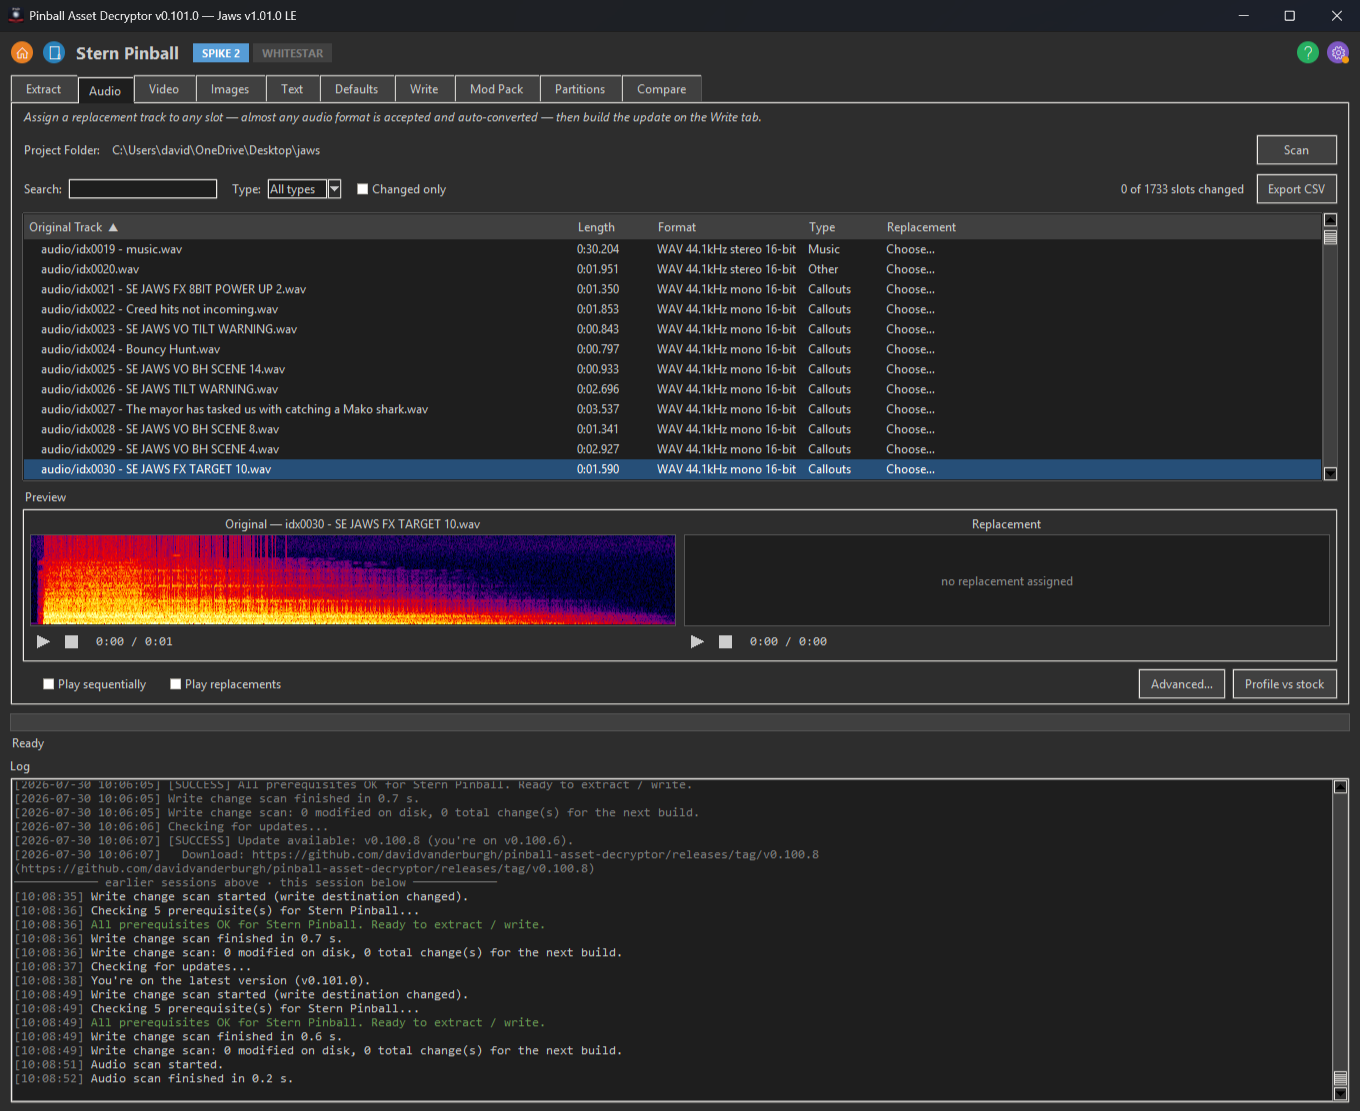
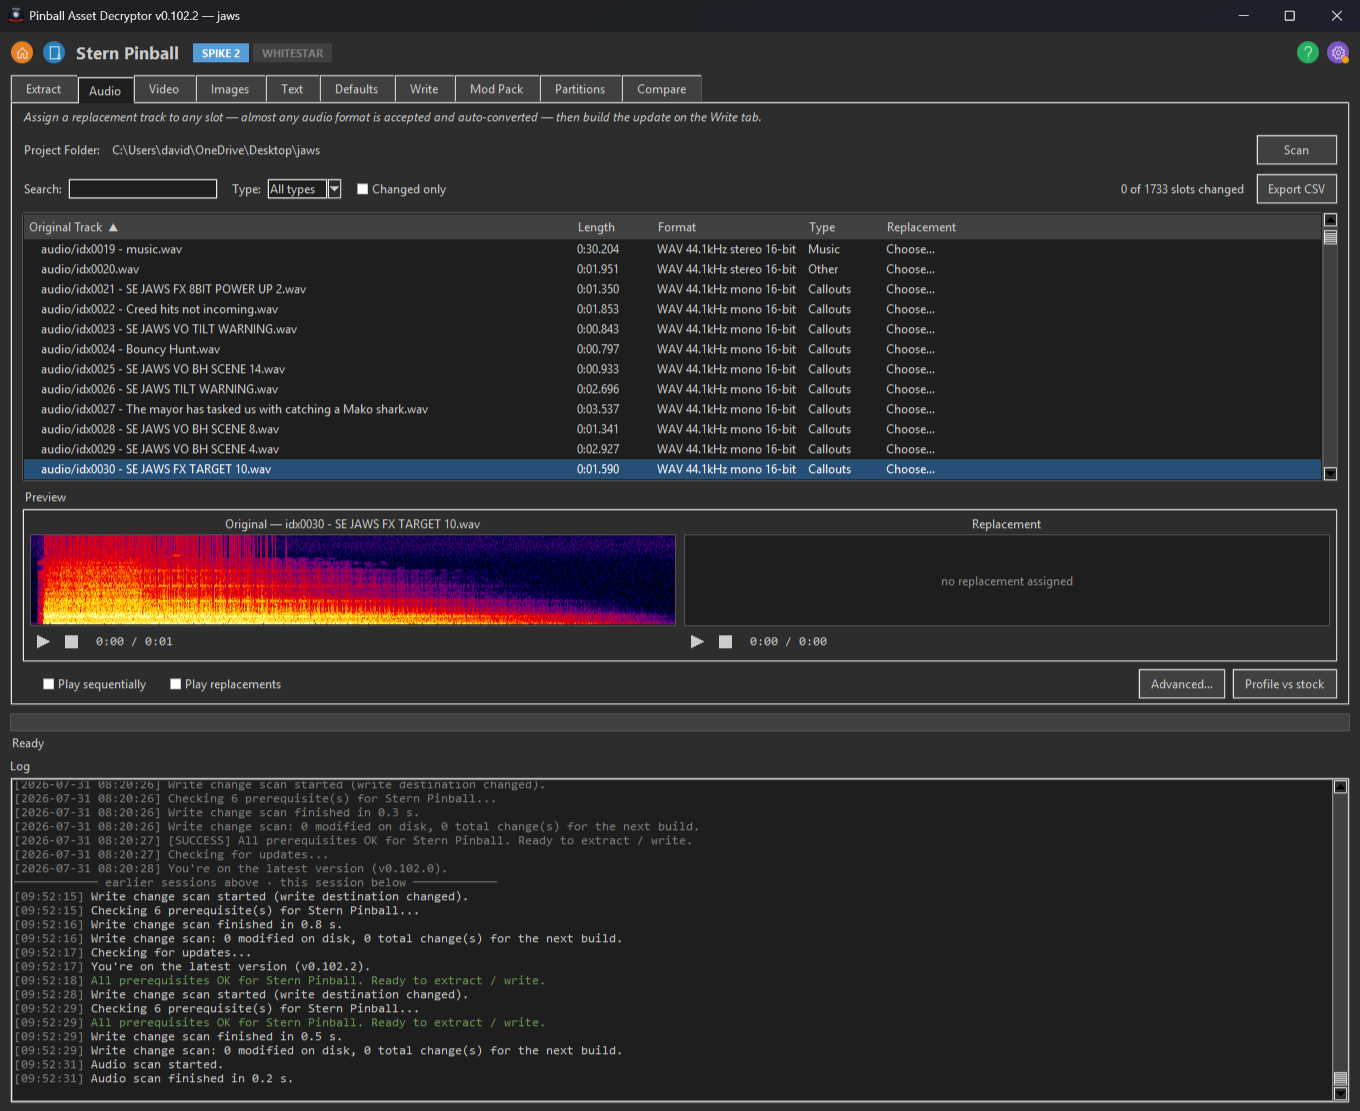
v0.102.2 - Title bar follows the open project, archiving the open project closes it, and searches stop flooding with glyph tiles
The window title now follows the restored or loaded project instead of the detected card's caption, and extracting into a brand-new folder anchors it as a project immediately rather than at the next save. Archiving the currently open project now works: it closes the project cleanly instead of refusing with "this project is currently open". Image search no longer matches glyph tiles through their font's atlas folder name, which flooded searches like "stern" with thousands of phantom rows on fresh extracts (tester feedback). The mod-pack import log now brackets each run with started/completed lines and a by-kind count, and Project properties got polish: the Location and Build location paths are hyperlinks that open the folder (replacing the Reveal button), the notes box aligns with its labels, and the size measurement no longer surfaces an internal error when the dialog is closed mid-measure. README screenshots refreshed.

Changed region(s): [[0.0, 0.7039, 0.5868, 0.9793], [0.1544, 0.0, 0.2162, 0.0306]]

diff --git a/pinball_decryptor/__init__.py b/pinball_decryptor/__init__.py
@@ -1,3 +1,3 @@
 """Pinball Asset Decryptor — unified decryptor for multiple pinball makers."""
 
-__version__ = "0.102.1"
+__version__ = "0.102.2"
